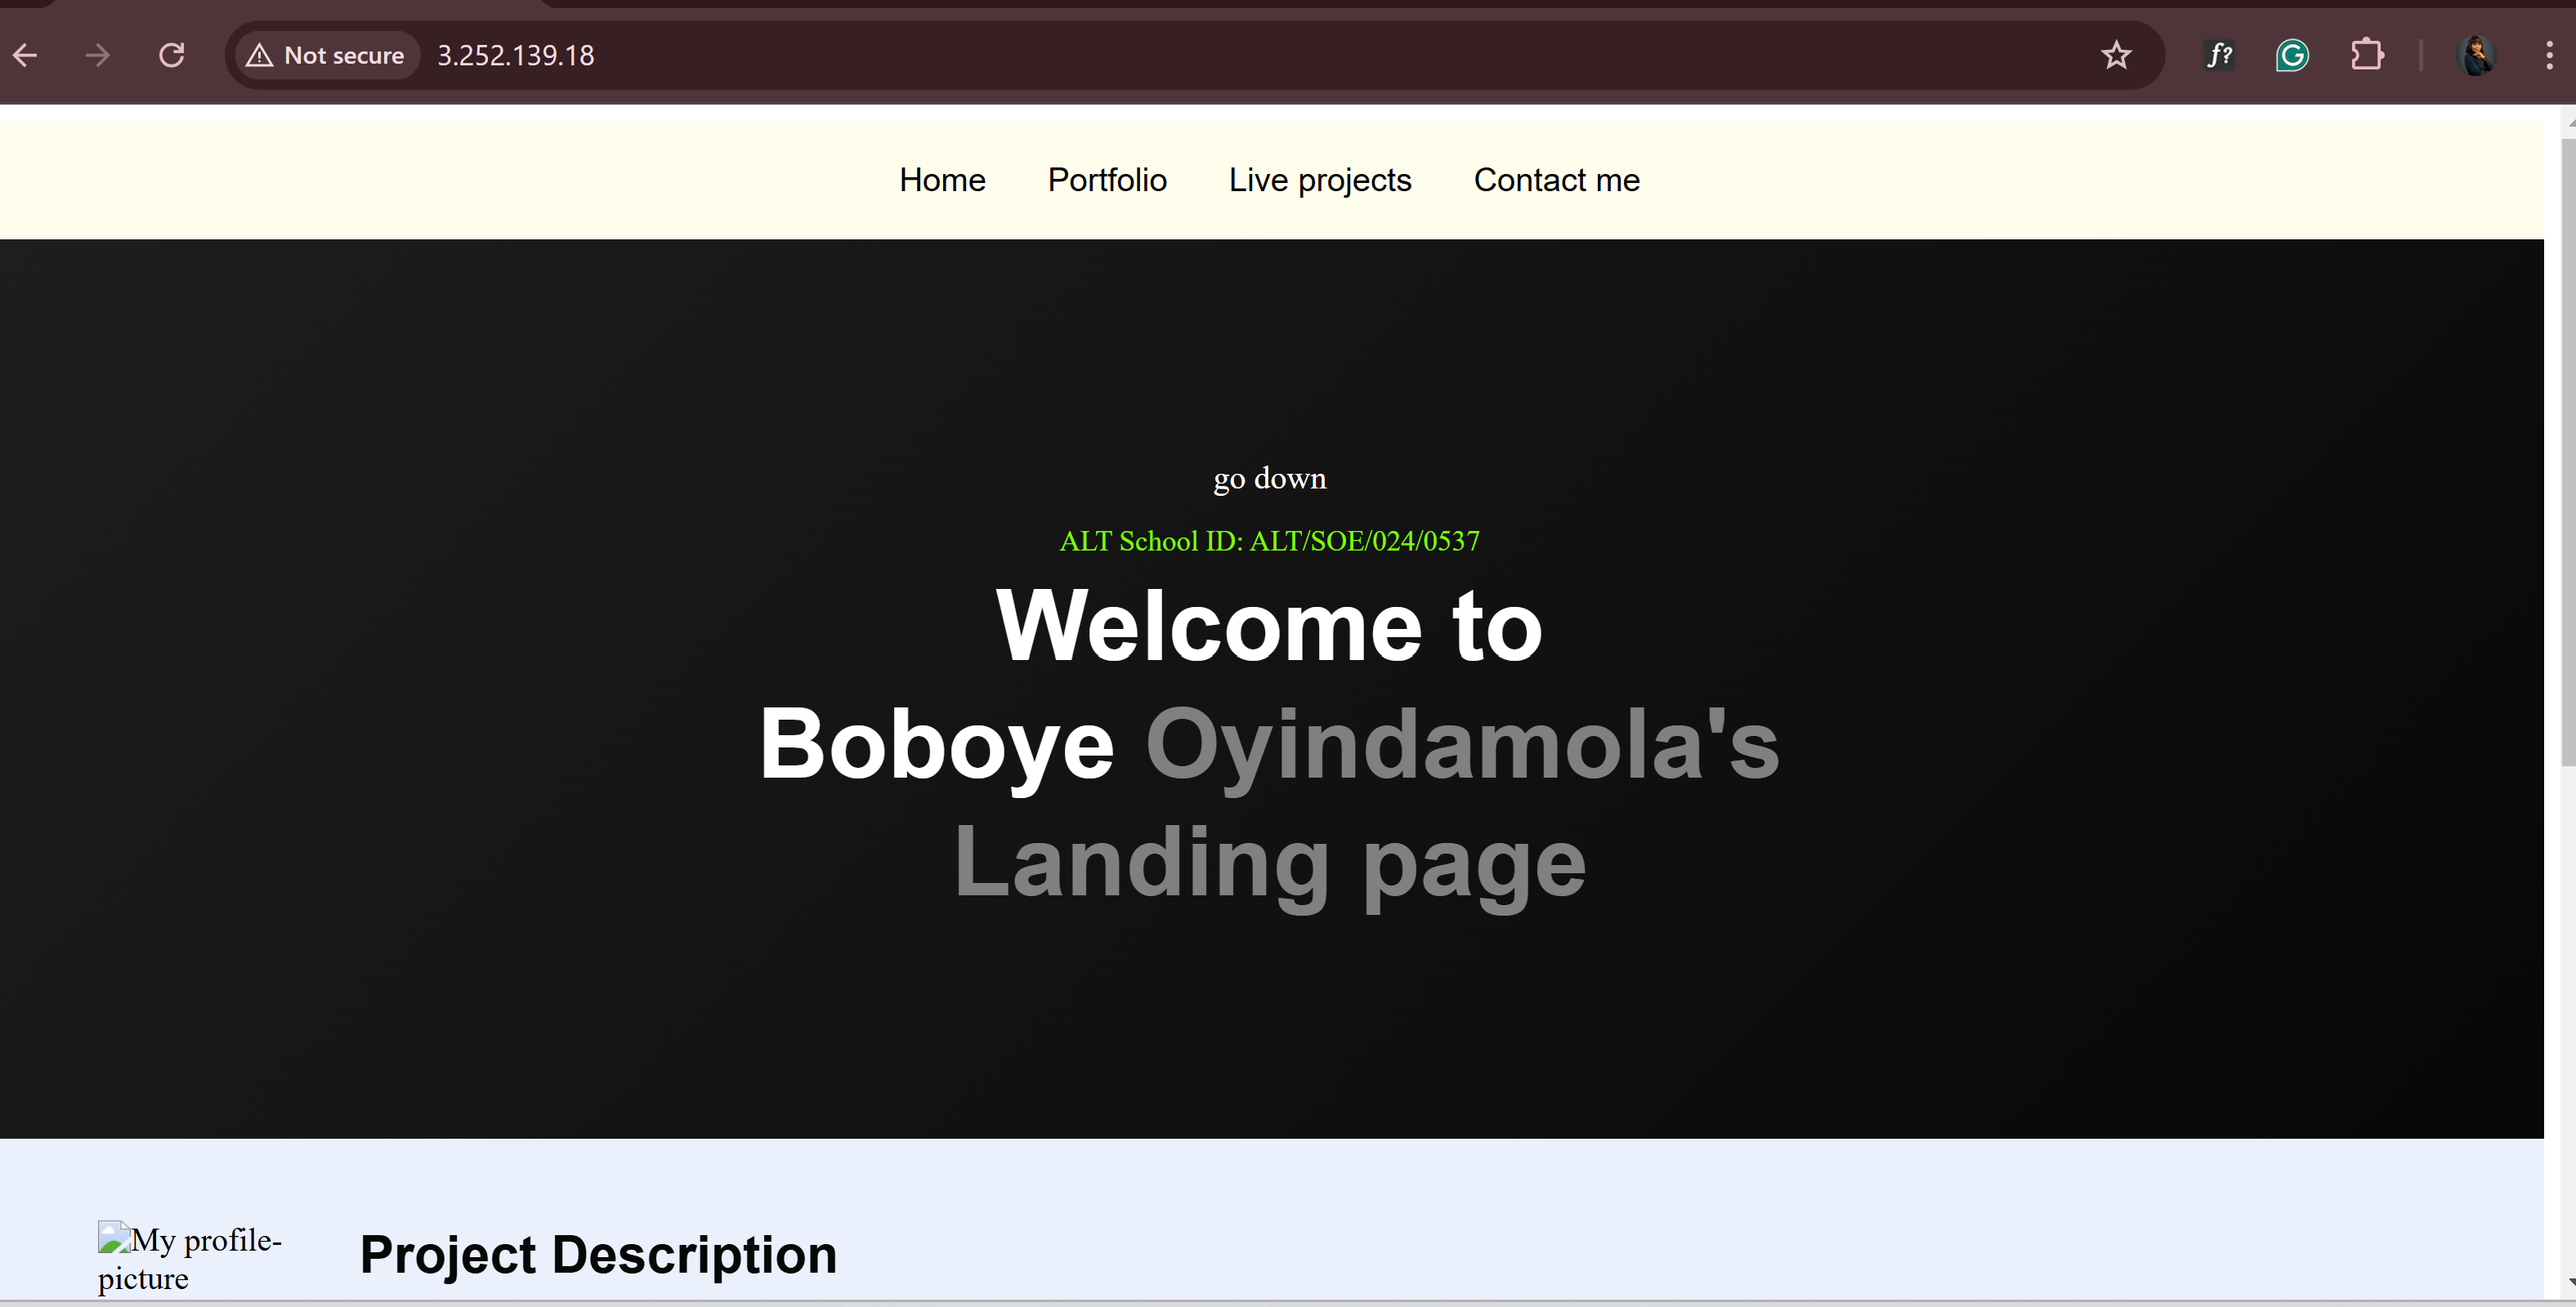
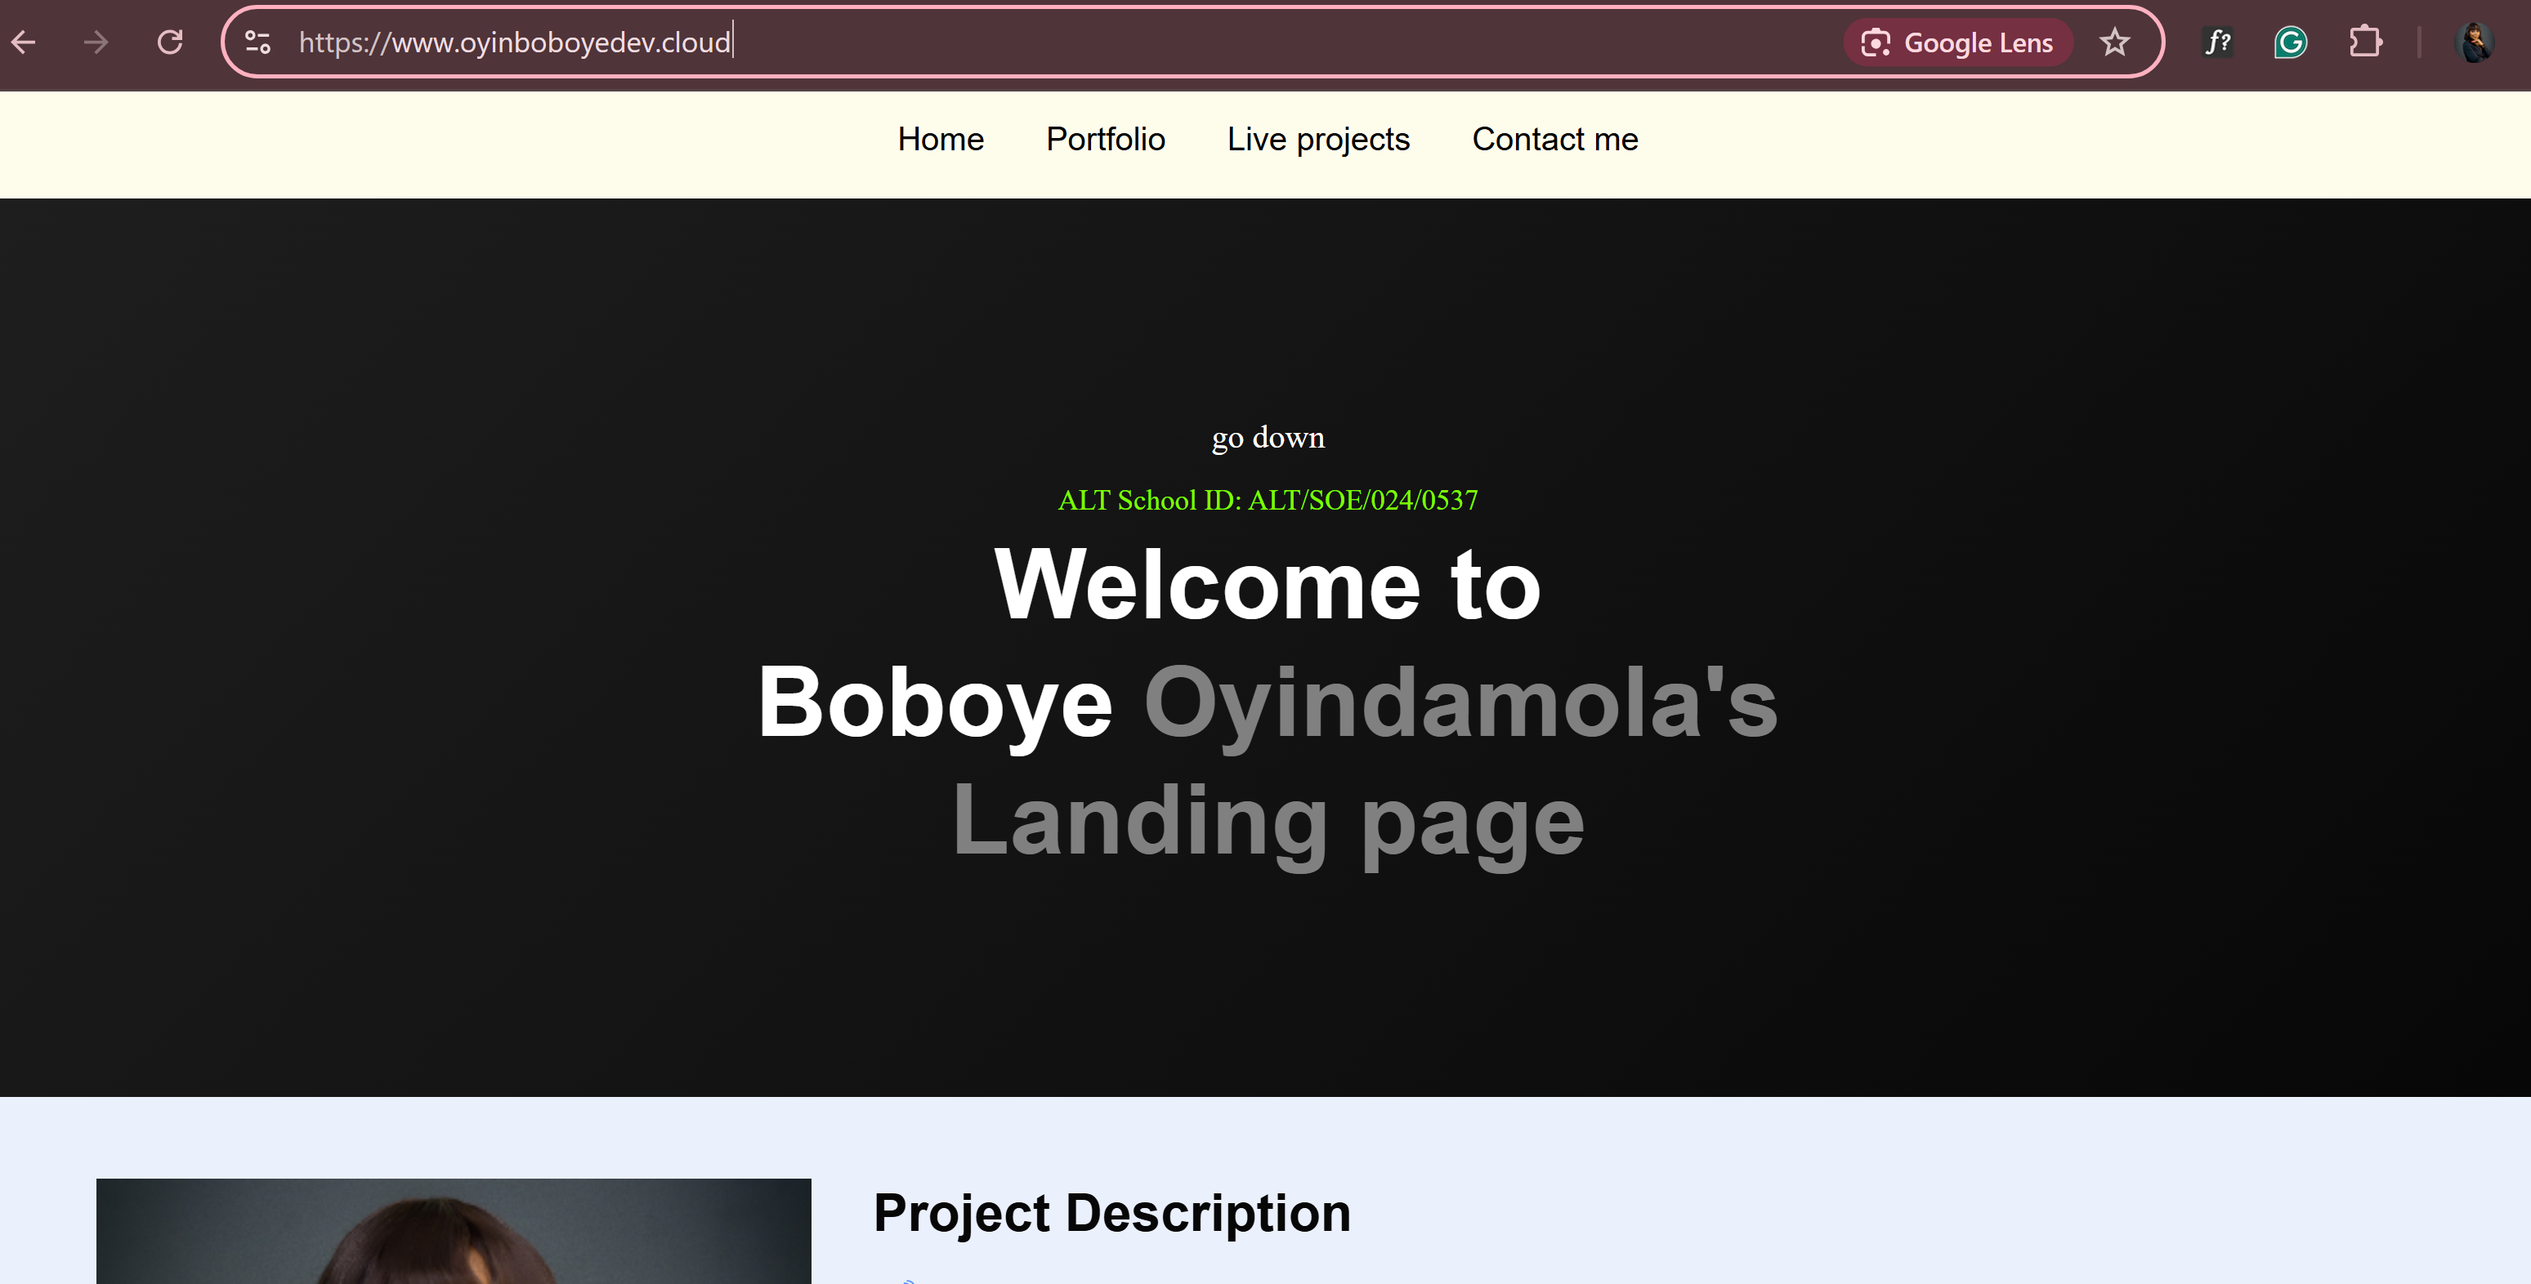
final commit with all project files

diff --git a/README.md b/README.md
@@ -4,9 +4,8 @@ This repository documents the step-by-step process of provisioning a Linux serve
 
 
 ## Public Access  
-You can access the deployed website using the following public IP address:  
-[http://3.252.139.18/](http://3.252.139.18/)  
-
+You can access the deployed website using the URL:  
+[https://www.oyinboboyedev.cloud/] 
 
 ## Step-by-Step Documentation  
 
@@ -28,13 +27,15 @@ You can access the deployed website using the following public IP address:
 Deployed the following files to the /var/www/html directory:
 - index.html (the main HTML file).
 - index.css (for basic styling).
-- The assets folder (containing necessary images).
+- The assets folder (containing necessary image).
 
 ### 5. Setting Up HTTPS
-. Configured HTTPS using Let's Encrypt to secure the server.
-. Obtained a domain name from Afraid.dns and linked it to the server.
+- Linked my Domain name "oyinboboyedev.cloud" to the server IP Address.
+- Configured HTTPS using Let's Encrypt to secure the server.
+- Opened up port 443 (on AWS) to allow HTTPS traffic.
+
 Tools and Technologies Used
 - AWS: For hosting the server.
 - Nginx: As the web server.
 - Let's Encrypt: For HTTPS setup.
-- Afraid.dns: For domain name registration.
+
